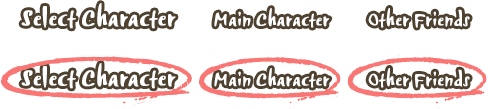
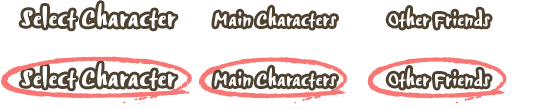
update friend slider for didn't overlap & button img update

diff --git a/css/main.css b/css/main.css
@@ -2067,10 +2067,10 @@ body > footer {
       background-position: 0 7px;
       cursor: default; }
     body > footer nav #nav-2 {
-      width: 142px;
+      width: 150px;
       background-position: -199px 7px; }
     body > footer nav #nav-3 {
-      width: 141px;
+      width: 185px;
       background-position: right 7px; }
     body > footer nav #nav-1:hover, body > footer nav .active #nav-1 {
       background-position: 0 7px; }
@@ -2090,6 +2090,7 @@ body > footer {
   body > footer .googleplay {
     margin-left: 245px; }
   body > footer h2 {
+    white-space: nowrap;
     position: absolute;
     font-family: 'JS Noklae';
     font-size: 1.3125em;
@@ -2183,7 +2184,6 @@ main {
     position: absolute;
     left: 50%;
     top: 50%; }
-
   .home body #btnBack {
     display: none; }
   @media screen and (max-height: 42.1875em) {
@@ -2198,7 +2198,6 @@ main {
 #world-salads_friend {
   margin-left: -80px;
   margin-top: -75px; }
-
 
 #world-about {
   display: block;
@@ -2283,7 +2282,7 @@ main {
     display: inline-block;
     position: relative;
     cursor: pointer !important;
-    margin: auto 30px;
+    margin: auto 25px;
     height: 520px;
     vertical-align: top; }
     .rsContent figure > img {
@@ -2764,7 +2763,7 @@ main {
 
 .about article {
   width: 574px;
-  height: 516px;
+  height: 574px;
   background: url("../img/about/bg-paper.png") no-repeat;
   color: #4d412f;
   font-size: 13px;
@@ -2782,16 +2781,16 @@ main {
     .about article {
       position: absolute;
       top: auto;
-      bottom: 180px;
+      bottom: 105px;
       left: 50%;
       margin: 0 0 0 -90px; } }
   .about article .detail {
-    height: 220px;
+    height: 284px;
     overflow: auto;
     margin-right: 25px; }
   .about article p {
     margin: 0 15px 0 45px;
-    text-indent: 35px;
+    text-indent: 0px;
     line-height: 1.7; }
   .about article h2 {
     margin: 0 0 20px 40px; }
@@ -3065,11 +3064,14 @@ main {
 
   .dr_vann-left { left: 0; z-index: 3; width: 120px; }
   .dr_vann-right { right: 0; z-index: 2; width: 200px; }
-  #c-gang { top: 30px; left: -160px; }
+  #c-gang { top: 35px; left: -140px; }
 
   .royalSlider .dr_vann #dr_vann img { width: 133px!important; height: 33px!important;}
   .royalSlider .dr_vann #i-pong img { width: 109px!important; height: 47px!important;}
   #i-pong { margin-left: -110px; }
+
+  .rsContent { padding-left: 220px; }
+  .sasa { margin-right: 0!important; }
 
 
 /* ======== End ======== */

diff --git a/js/friend.js b/js/friend.js
@@ -1,6 +1,6 @@
 jQuery(document).ready(function($) {
     // bxSlider
-    $('.bxslider').bxSlider({ 
+    $('.bxslider').bxSlider({
         infiniteLoop: false,
         pager: false
     });
@@ -88,7 +88,7 @@ jQuery(document).ready(function($) {
 			$('#nav-2').parent('li').removeClass('active');
 			$(this).parent('li').addClass('active');
 			setTimeout(function() {
-				$('figcaption').removeClass('show'); 
+				$('figcaption').removeClass('show');
 				$('.munbear').find('figcaption').addClass('show');
 			}, 600);
 
@@ -99,14 +99,14 @@ jQuery(document).ready(function($) {
 			$('#nav-3').parent('li').removeClass('active');
 			$(this).parent('li').addClass('active');
 			setTimeout(function() {
-				$('figcaption').removeClass('show'); 
+				$('figcaption').removeClass('show');
 				$('.jaja').find('figcaption').addClass('show');
 			}, 600)
 		});
 
 		slider.ev.on('rsAfterSlideChange', function(event){
 			if (slider.currSlideId > $('.munbear').parent().attr('index')-1){
-				$('#nav-2').parent('li').removeClass('active'); 
+				$('#nav-2').parent('li').removeClass('active');
 				$('#nav-3').parent('li').addClass('active');
 			} else {
 				$('#nav-3').parent('li').removeClass('active');
@@ -114,10 +114,11 @@ jQuery(document).ready(function($) {
 			}
 		});
 	};
-    
+
     var checkFigure = function(){
 		var bodyWidth = $('body').width();
-		var padding = 220;
+		// var padding = 220;
+    var padding = 400;
 		var twidth = bodyWidth - padding;
 		var royalSlider = $('.royalSlider');
 		$('figure').each(function(){
